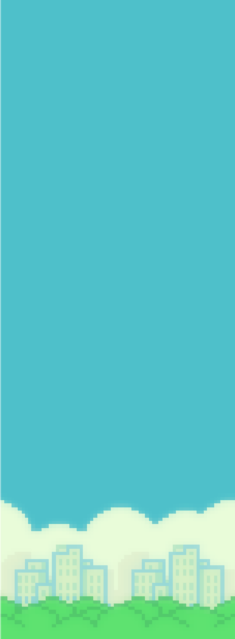
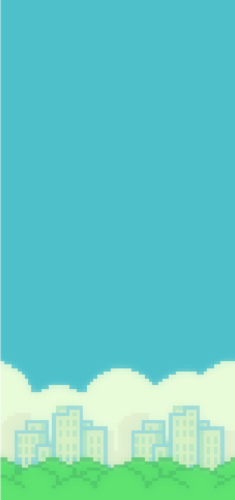
sprite sheet s needed

Changed region(s): [[0.0, 0.72, 1.0, 0.96]]

diff --git a/Javascript/assignment 5/javascript/game.js b/Javascript/assignment 5/javascript/game.js
@@ -1,9 +1,33 @@
+class NewGame {
+  constructor(canvasIdName) {
+    this.gameCanvas = document.getElementById(canvasIdName);
+    this.gameCanvas.height = "500";
+    this.gameCanvas.width = "460";
+    this.ctx = this.gameCanvas.getContext("2d");
+    this.drawBackground();
+  }
+  drawBackground() {
+    let bgImage = new Image();
+    bgImage.src = "./images/bg.png";
+    //background
+    document.onload = (e) => {
+      this.ctx.drawImage(bgImage, 0, -0, 235, 500);
+      this.ctx.drawImage(bgImage, 230, -0, 235, 500);
+    };
+    let imgg = new Image();
+    imgg.src = "./images/cylinder.png";
+    // imgg.onload = (e) => {
+    this.ctx.drawImage(imgg, 0, 0, 70, 150, 0, 0, 70, 150);
+    // };
+  }
+}
+
 class Game {
   constructor(canvasIdName, whichKeyToPress) {
     this.gameCanvas = document.getElementById(canvasIdName);
 
     this.gameCanvas.height = "500";
-    this.gameCanvas.width = "340";
+    this.gameCanvas.width = "440";
     //to create context
     this.ctx = this.gameCanvas.getContext("2d");
     this.frames = 0;
@@ -11,7 +35,7 @@ class Game {
     //Object variables
 
     this.whichKeyToPress = whichKeyToPress;
-
+    this.drawCanvas();
     let imagesArray = [
       "./images/cylinder.png",
       "./images/cylinder-down.png",
@@ -34,6 +58,7 @@ class Game {
     this.getReady = new ReadySetGo(this.gameCanvas, this.ctx, imgArr[5]);
     this.gameOver = new GameOver(this.gameCanvas, this.ctx, imgArr[6]);
     // this.drawCanvas();
+
     this.gamePlay();
     this.actionAfterKeyPressed();
   }
@@ -43,8 +68,10 @@ class Game {
     // let imgg = new Image();
     // imgg.src = "./images/cylinder.png";
     // imgg.onload = (e) => {
-    //   this.ctx.drawImage(imgg, 10, 100, 70, 150);
+    //   this.ctx.drawImage(imgg, 0, -150, 70, 150);
     // };
+    this.context.fillStyle = "#70c5ce";
+    this.context.fillRect(0, -150, this.canvas.width, this.canvas.height);
 
     //background Images
     let bgImage = new Image();
@@ -52,8 +79,13 @@ class Game {
     //background
     bgImage.onload = (e) => {
       //   console.log("loaded");
-      //   this.ctx.drawImage(bgImage, 0, 0, 300, 500);
-      this.ctx.drawImage(bgImage, 280, this.gameCanvas.height - 239, 280, 230);
+      // this.ctx.drawImage(bgImage, 0, -150, 235, 500);
+      // this.ctx.drawImage(bgImage, 230, -150, 235, 500);
+    };
+    let imgg = new Image();
+    imgg.src = "./images/cylinder.png";
+    imgg.onload = (e) => {
+      this.ctx.drawImage(imgg, 0, -150, 70, 150);
     };
     this.pipes.draw();
     this.belowBG.draw();
@@ -61,6 +93,11 @@ class Game {
     this.getReady.draw(currentState);
     this.gameOver.draw(currentState);
     this.scoreBoard.draw(currentState);
+    bgImage.onload = (e) => {
+      //   console.log("loaded");
+      this.ctx.drawImage(bgImage, 0, -150, 235, 500);
+      this.ctx.drawImage(bgImage, 230, -150, 235, 500);
+    };
   }
   gamePlay() {
     this.gameCanvas.onclick = (e) => {
@@ -132,5 +169,5 @@ class Game {
   }
 }
 
-let pp = new Game("flappyGame-1", 1);
-pp.loopAnimation();
+let pp = new NewGame("flappyGame-1", 1);
+// pp.loopAnimation();

diff --git a/Javascript/assignment 5/javascript/bird.js b/Javascript/assignment 5/javascript/bird.js
@@ -18,16 +18,20 @@ class Bird {
     this.DEGREE = Math.PI / 180;
   }
   draw() {
+    console.log("bird drawn");
     this.ctx.save();
     this.ctx.translate(this.x, this.y);
     this.ctx.rotate(this.rotation);
-    this.ctx.drawImage(
-      this.image,
-      this.width,
-      this.height,
-      -this.width / 2,
-      -this.height / 2
-    );
+    this.image.onload = (e) => {
+      // this.ctx.drawImage(
+      //   this.image,
+      //   this.x,
+      //   this.y - 150,
+      //   -this.width / 2,
+      //   -this.height / 2
+      // );
+      this.ctx.drawImage(this.image, 0, -150, 36, 28);
+    };
   }
   flapBirdWings() {
     this.speed = -this.jump;

diff --git a/Javascript/assignment 5/index.html b/Javascript/assignment 5/index.html
@@ -10,15 +10,16 @@
   </head>
   <body>
     <br />
-    <div class="center">
+    <div>
       <canvas id="flappyGame-1"></canvas>
     </div>
+    <script src="./javascript/game.js"></script>
     <script src="./javascript/belowTile.js"></script>
     <script src="./javascript/pipes.js"></script>
     <script src="./javascript/score.js"></script>
     <script src="./javascript/bird.js"></script>
     <script src="./javascript/gameStates.js"></script>
-    <script src="./javascript/game.js"></script>
+
     <script></script>
   </body>
 </html>

diff --git a/Javascript/assignment 5/javascript/pipes.js b/Javascript/assignment 5/javascript/pipes.js
@@ -23,7 +23,7 @@ class Pipes {
       //DRAW TOP PIPE
       this.pipeImageTop.onload = (e) => {
         // console.log("image loaded");
-        this.ctx.drawImage(this.pipeImageTop, 0, 100, 70, 150);
+        this.ctx.drawImage(this.pipeImageTop, 0, -150, 70, 150);
         // this.ctx.drawImage(
         //   this.pipeImageTop,
         //   pos.x,
